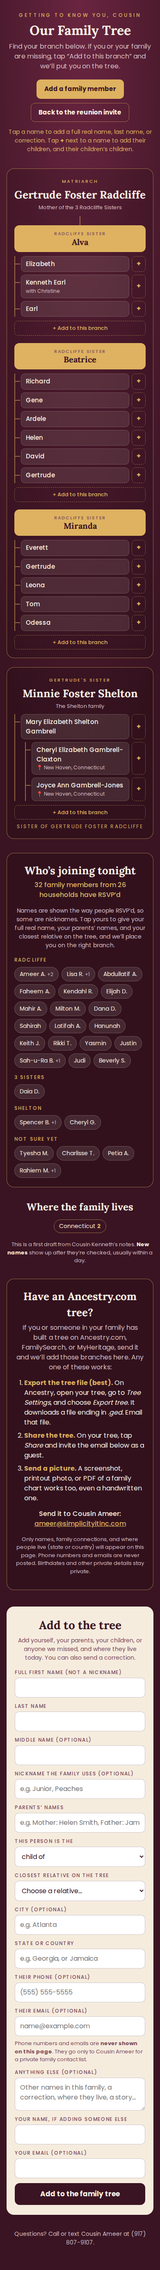
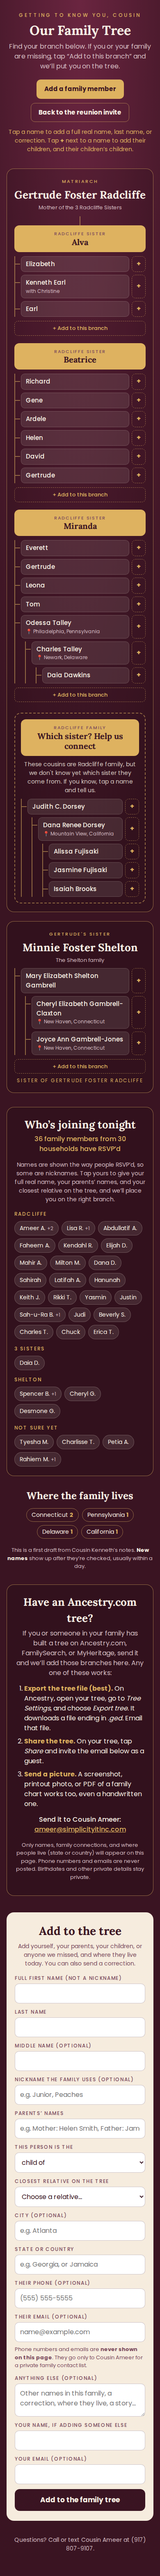
Tree: add Odessa Talley line, Dorsey family, 4 RSVPs
Claude-Session: https://claude.ai/code/session_01HB5Vg1cxA97bgRGrLQwksg

diff --git a/tree/index.html b/tree/index.html
@@ -50,6 +50,9 @@
   .sisters { display: grid; grid-template-columns: repeat(3, 1fr); gap: 14px; position: relative; padding-top: 22px; }
   .sisters::before { content: ""; position: absolute; top: 0; left: 16.66%; right: 16.66%; height: 2px; background: var(--line); }
   .sister { position: relative; }
+  .unplaced { margin: 26px auto 0; max-width: 420px; border: 2px dashed var(--line); border-radius: 16px; padding: 14px; }
+  .unplaced .unote { font-size: 14px; opacity: .8; margin: 10px 4px; text-align: center; }
+  .unplaced .kids { margin-top: 6px; }
   .sister::before { content: ""; position: absolute; top: -22px; left: 50%; width: 2px; height: 22px; background: var(--line); }
   .person { background: var(--card); color: var(--ink); border-radius: 12px; padding: 12px 14px; text-align: center; }
   .person.lead { background: var(--gold); }
@@ -226,7 +229,16 @@
         { name: "Beatrice", role: "Radcliffe Sister", children: [
           { name: "Richard" }, { name: "Gene" }, { name: "Ardele" }, { name: "Helen" }, { name: "David" }, { name: "Gertrude" } ] },
         { name: "Miranda", role: "Radcliffe Sister", children: [
-          { name: "Everett" }, { name: "Gertrude" }, { name: "Leona" }, { name: "Tom" }, { name: "Odessa" } ] }
+          { name: "Everett" }, { name: "Gertrude" }, { name: "Leona" }, { name: "Tom" },
+          { name: "Odessa Talley", loc: "Philadelphia, Pennsylvania", children: [
+            { name: "Charles Talley", loc: "Newark, Delaware", children: [
+              { name: "Daia Dawkins" } ] } ] } ] }
+      ],
+      // Radcliffe relatives whose connection to the sisters isn't confirmed yet
+      unplaced: [
+        { name: "Judith C. Dorsey", children: [
+          { name: "Dana Renee Dorsey", loc: "Mountain View, California", children: [
+            { name: "Alissa Fujisaki" }, { name: "Jasmine Fujisaki" }, { name: "Isaiah Brooks" } ] } ] }
       ]
     },
     shelton: { role: "Gertrude's sister", name: "Minnie Foster Shelton", note: "The Shelton family", children: [
@@ -310,6 +322,14 @@
     sis.appendChild(c);
   });
   b1.appendChild(sis);
+  if (r.unplaced && r.unplaced.length) {
+    var uc = el("div", "unplaced"), up = el("div", "person lead");
+    up.appendChild(el("div", "r", "Radcliffe family")); up.appendChild(el("div", "n", "Which sister? Help us connect"));
+    uc.appendChild(up);
+    uc.appendChild(el("p", "unote", "These cousins are Radcliffe family, but we don't know yet which sister they come from. If you know, tap a name and tell us."));
+    uc.appendChild(kidList(r, r.unplaced, "Radcliffe family"));
+    b1.appendChild(uc);
+  }
   root.appendChild(b1);
 
   // Shelton branch
@@ -329,7 +349,7 @@
   // Where the family lives
   var counts = {};
   function walk(list) { list.forEach(function (k) { if (k.loc) { var st = k.loc.split(",").pop().trim(); counts[st] = (counts[st] || 0) + 1; } if (k.children) walk(k.children); }); }
-  walk(TREE.radcliffe.children); walk(TREE.shelton.children);
+  walk(TREE.radcliffe.children); walk(TREE.radcliffe.unplaced || []); walk(TREE.shelton.children);
   var keys = Object.keys(counts).sort(function (a, b) { return counts[b] - counts[a]; });
   if (keys.length && !ZOOM) {
     document.getElementById("places-sec").hidden = false;
@@ -338,9 +358,9 @@
 
   // Who's joining tonight (from RSVPs). First name and last initial only.
   var JOINING = [
-    { group: "Radcliffe", people: ["Ameer A.|+2", "Lisa R.|+1", "Abdullatif A.", "Faheem A.", "Kendahl R.", "Elijah D.", "Mahir A.", "Milton M.", "Dana D.", "Sahirah", "Latifah A.", "Hanunah", "Keith J.", "Rikki T.", "Yasmin", "Justin", "Sah-u-Ra B.|+1", "Judi", "Beverly S."] },
+    { group: "Radcliffe", people: ["Ameer A.|+2", "Lisa R.|+1", "Abdullatif A.", "Faheem A.", "Kendahl R.", "Elijah D.", "Mahir A.", "Milton M.", "Dana D.", "Sahirah", "Latifah A.", "Hanunah", "Keith J.", "Rikki T.", "Yasmin", "Justin", "Sah-u-Ra B.|+1", "Judi", "Beverly S.", "Charles T.", "Chuck", "Erica T."] },
     { group: "3 Sisters", people: ["Daia D."] },
-    { group: "Shelton", people: ["Spencer B.|+1", "Cheryl G."] },
+    { group: "Shelton", people: ["Spencer B.|+1", "Cheryl G.", "Desmone G."] },
     { group: "Not sure yet", people: ["Tyesha M.", "Charlisse T.", "Petia A.", "Rahiem M.|+1"] }
   ];
   var total = 0, gwrap = document.getElementById("jgroups");
